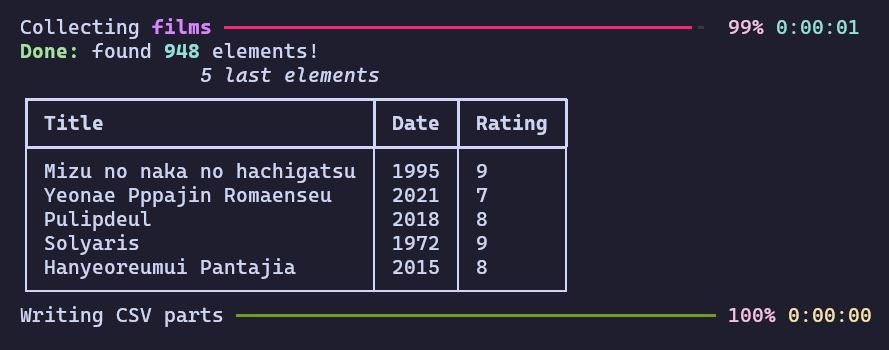
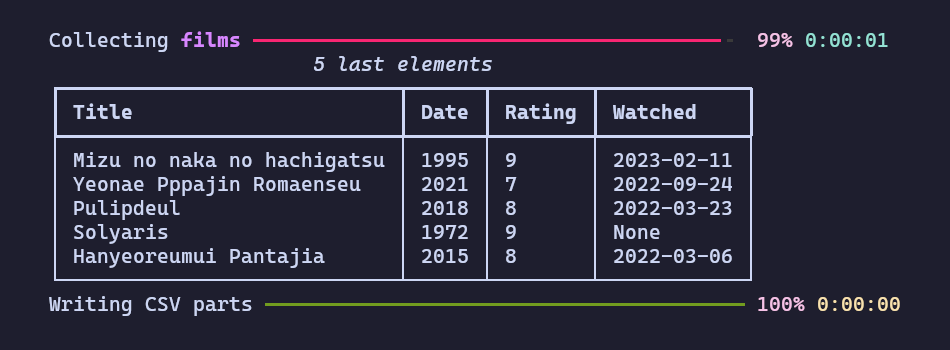
Add watched date

Changed region(s): [[0.0, 0.0571, 1.0, 0.9429], [0.7897, 0.0571, 0.9719, 0.1429], [0.7897, 0.2571, 0.82, 0.3714]]

diff --git a/main.py b/main.py
@@ -131,13 +131,23 @@ def get_data_batch(username: str, offset: int = 0,
     if collection['total'] == 0:
         return {'num_total': 0, 'collection': []}
 
-    results = {
-        'num_total': collection['total'],
-        'collection': [{
+    items = []
+    for x in collection['products']:
+        item = {
             'Title': x['originalTitle'] if x['originalTitle'] else x['title'],
             'Year': str(x['yearOfProduction']),
-            'Rating10': str(x['otherUserInfos']['rating'])}
-            for x in collection['products']]
+            'Rating10': str(x['otherUserInfos']['rating']),
+        }
+
+        if action == 'DONE':
+            date = str(x['otherUserInfos']['dateDone']).split('T')[0]
+            item.update({'WatchedDate': date})
+
+        items.append(item)
+
+    results = {
+        'num_total': collection['total'],
+        'collection': items,
     }
 
     return results
@@ -205,21 +215,33 @@ def write_csv(path: str, data: List[Dict[str, str]], limit: int = 1900):
                     writer.writerow(elem)
 
 
-def pretty_table(data: List[Dict[str, str]], num_elements: int = 5):
+def pretty_table(data: List[Dict[str, str]], num_elements: int = 5,
+                 action: str = 'DONE'):
     """
     Pretty print table with `rich`
 
     :data: List of dictionaries containing the data
     :num_elements: Number of elements to print
+    :action: 'DONE' or 'WISH'
     """
+
+    if action not in ['DONE', 'WISH']:
+        raise ValueError("`action` is neither 'DONE' nor 'WISH'")
 
     table = Table(title=f'{num_elements} last elements', show_header=True)
     table.add_column("Title")
     table.add_column("Date")
     table.add_column("Rating")
 
+    if action == 'DONE':
+        table.add_column("Watched")
+
     for x in data[:num_elements]:
-        table.add_row(x['Title'], x['Year'], x['Rating10'])
+        if action == 'DONE':
+            table.add_row(
+                x['Title'], x['Year'], x['Rating10'], x['WatchedDate'])
+        else:
+            table.add_row(x['Title'], x['Year'], x['Rating10'])
 
     print(table)
 
@@ -261,7 +283,7 @@ if __name__ == '__main__':
 
     if len(results) > 0:
         print(f'[bold green]Done:[/bold green] found {len(results)} elements!')
-        pretty_table(results, 5)
+        pretty_table(results, 5, item_action)
         write_csv(p_args.output, results)
     else:
         print(f'[bold red]Done:[/bold red] found {len(results)} element :(')

diff --git a/README.md b/README.md
@@ -7,7 +7,7 @@ A script to export your movies from [SensCritique](https://senscritique.com) to 
 
 (It also works for *private* members!)
 
-Supports: <b>watched</b> items and <b>watchlist</b>
+Supports: <b>watched</b> items (with <i>ratings</i>, <i>watched date</i>) and <b>watchlist</b>
 
 ![Screenshot](assets/screenshot.png)
 
